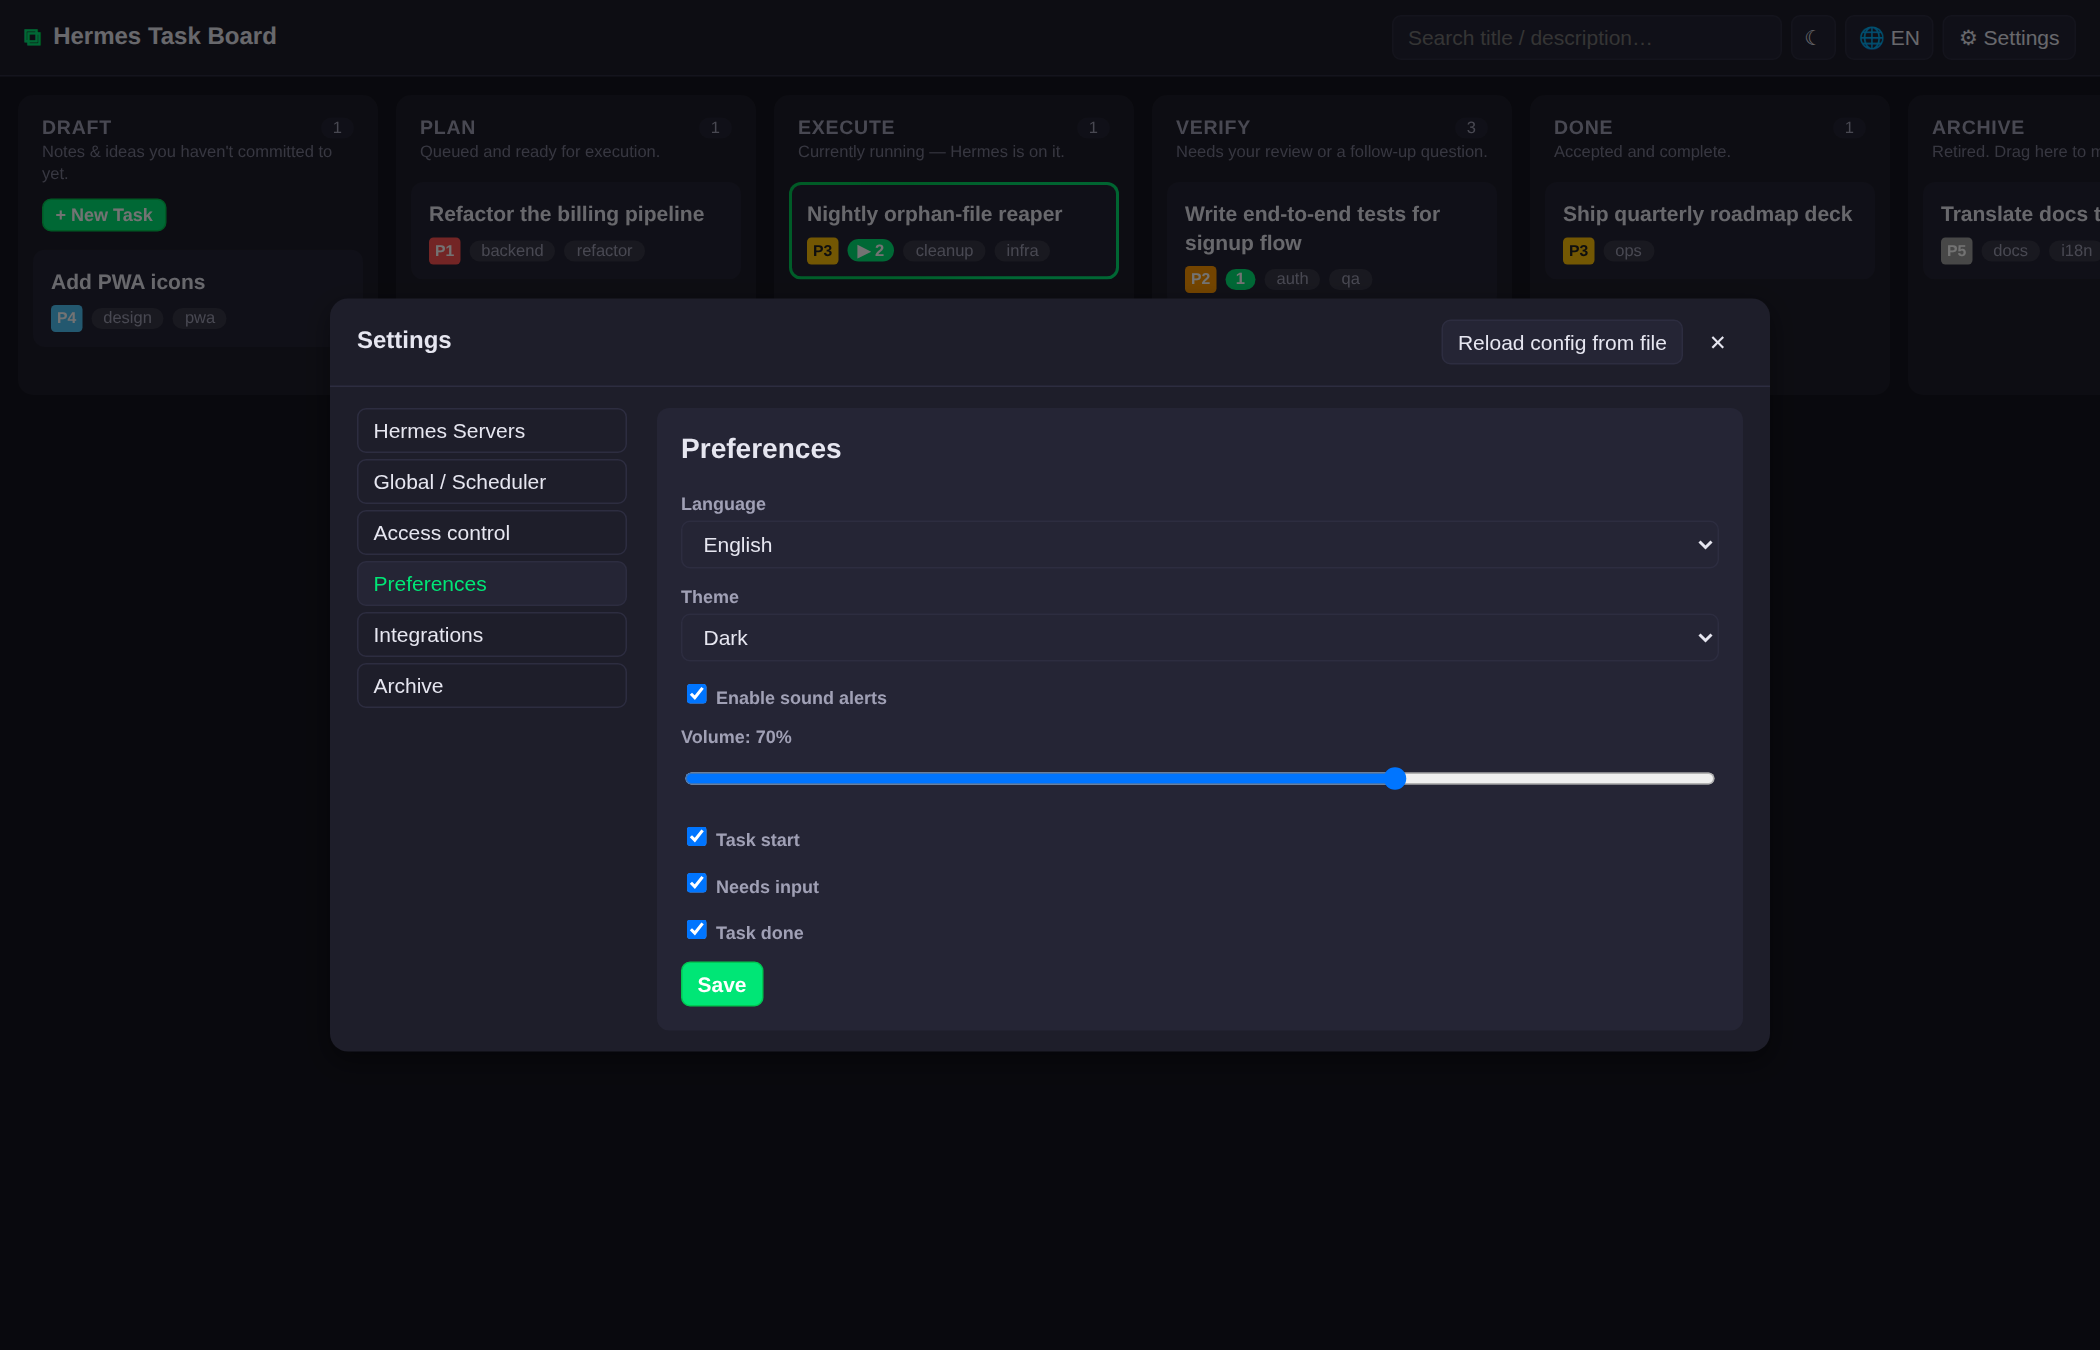
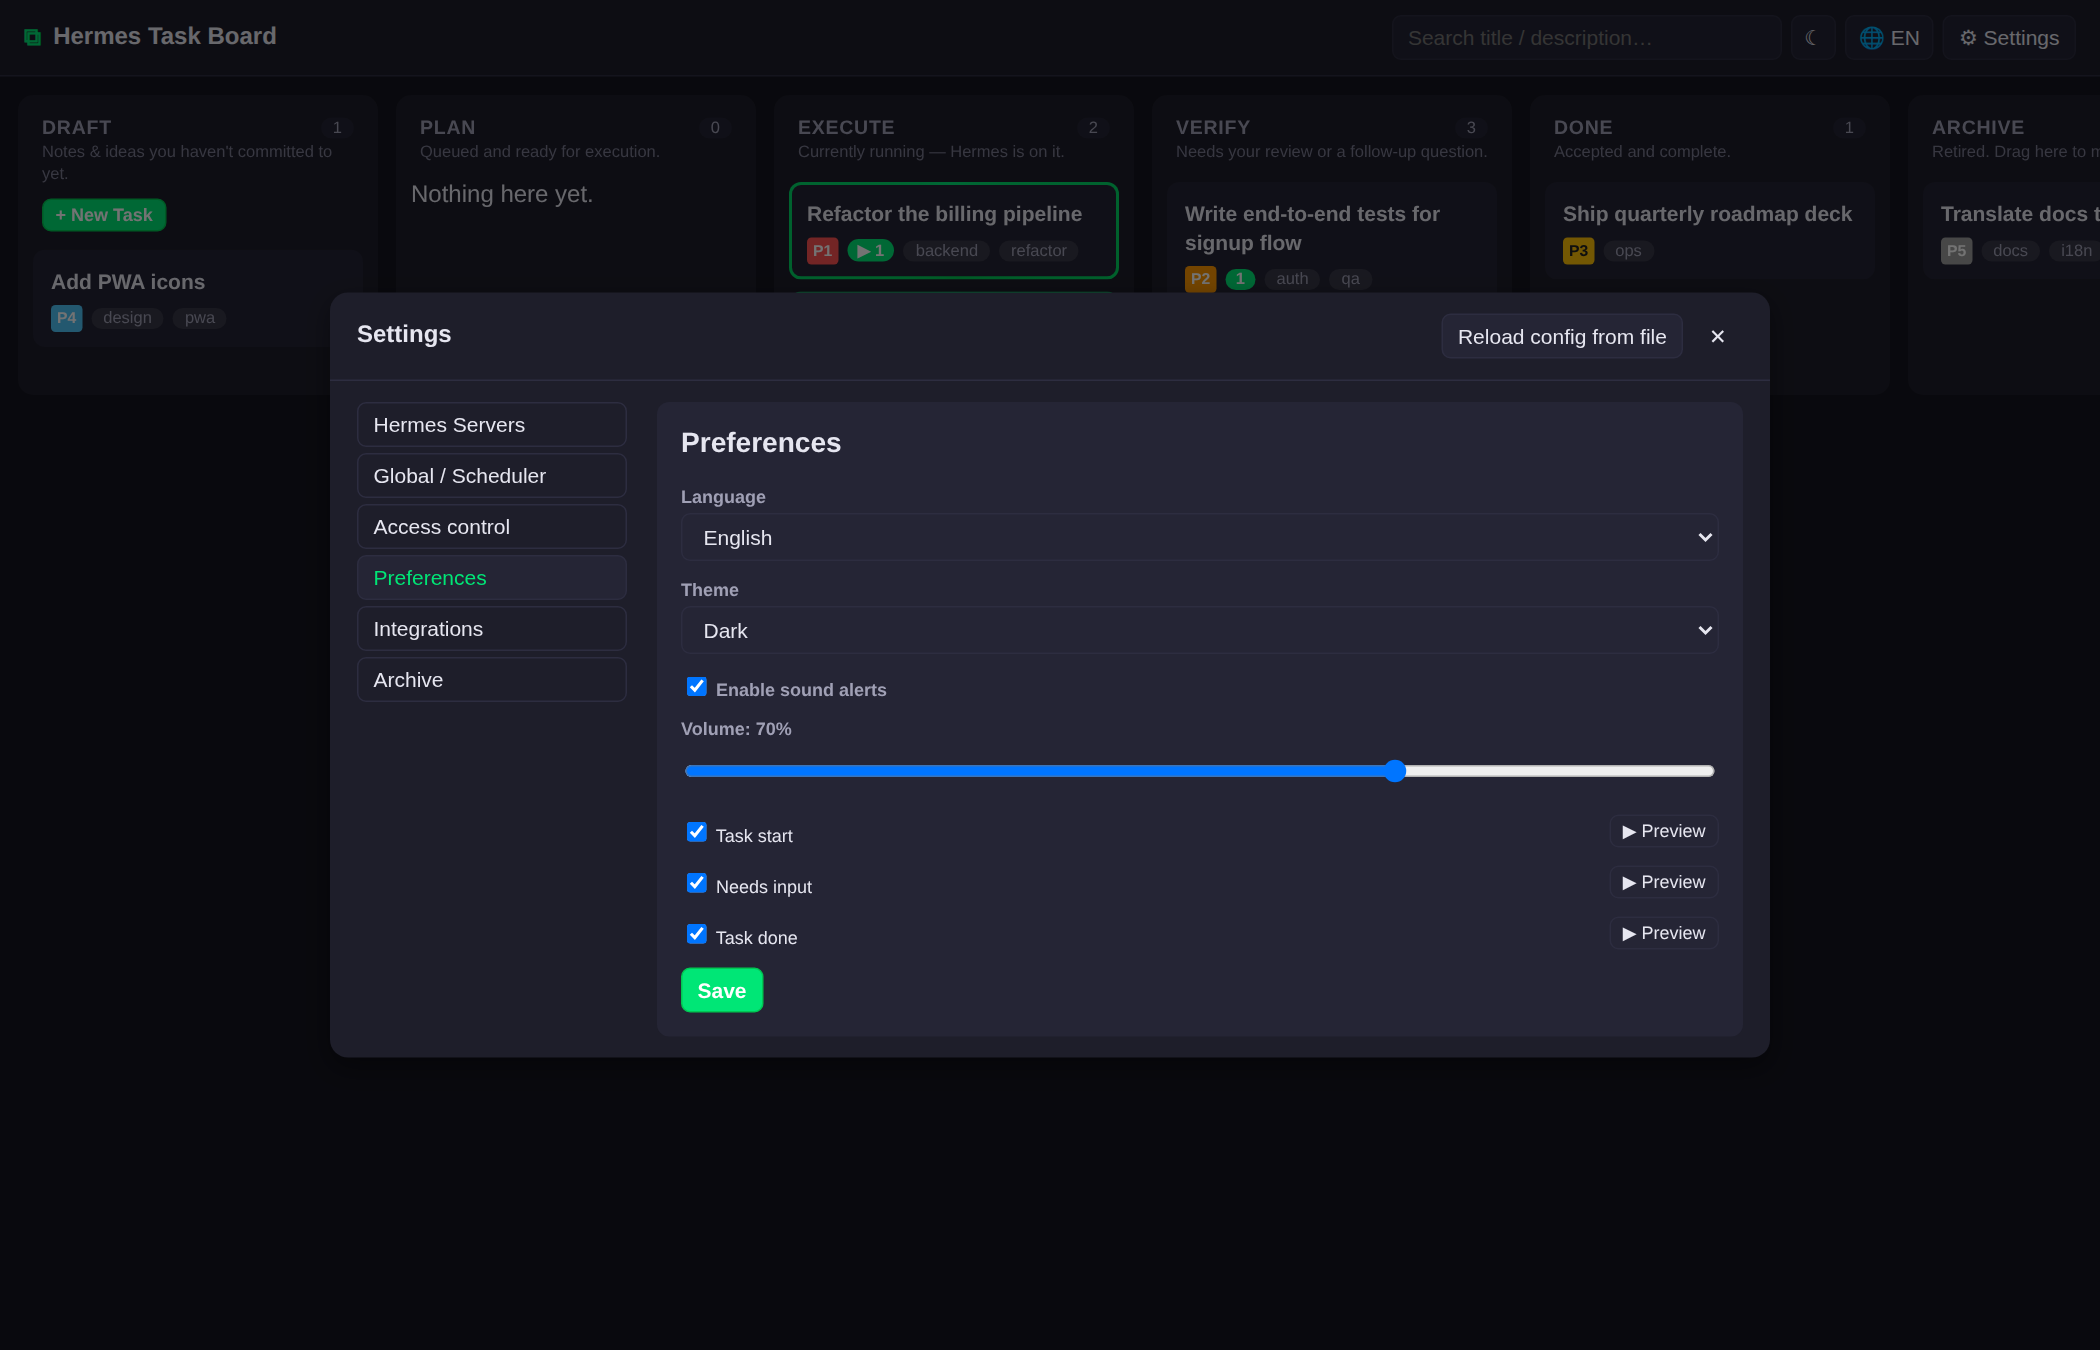
fix: attempt-list toggle was a no-op; add ▶ sound previews
Attempt list toggle
-------------------
Previous computed `attemptListVisible = listOpen || attempts.length > 1`
meant that once a task had two or more attempts the list stayed pinned
visible regardless of the Hide/Show button. Fixed by making `listOpen`
the single source of truth and initialising it per-load (open when
attempts > 1, closed otherwise); the toggle now surfaces whenever
there's at least one attempt.

Sound previews
--------------
Each event row in Settings → Preferences gains a ▶ Preview button that
plays its tone at the current volume, bypassing the per-event enable
flag so users can audition a sound before deciding whether to turn it
on. The real preferences are snapshotted and restored immediately
after the tone plays — no persistence.

Tests: test_attempt_list_toggle and test_sound_preview_buttons;
suite is 23/23 green.

diff --git a/internal/webfs/web/js/app.js b/internal/webfs/web/js/app.js
@@ -314,9 +314,6 @@ const TaskModal = {
     currentAttempt() {
       return this.attempts.find((a) => a.id === this.activeAttemptId) || null;
     },
-    attemptListVisible() {
-      return this.listOpen || this.attempts.length > 1;
-    },
     renderedDescription() {
       return markdown(this.task && this.task.description || '');
     },
@@ -400,14 +397,14 @@ const TaskModal = {
             <h3 class="attempts-heading">
               {{ $t('attempt.heading') }}
               <span class="attempts-count">{{ attempts.length }}</span>
-              <button v-if="attempts.length > 1 || attempts.length === 0"
-                      class="ghost small" @click="listOpen = !listOpen">
+              <button v-if="attempts.length > 0"
+                      class="ghost small attempt-toggle" @click="listOpen = !listOpen">
                 {{ listOpen ? $t('attempt.collapse') : $t('attempt.expand') }}
               </button>
             </h3>
 
-            <div class="attempt-panel" :class="{ stacked: attempts.length <= 1 }">
-              <div class="attempt-list" v-show="attemptListVisible">
+            <div class="attempt-panel" :class="{ stacked: !listOpen }">
+              <div class="attempt-list" v-show="listOpen">
                 <div v-for="a in attempts" :key="a.id" class="attempt-item"
                      :class="{active: a.id === activeAttemptId}"
                      @click="activeAttemptId = a.id">
@@ -497,6 +494,9 @@ const TaskModal = {
         if (!this.activeAttemptId || !this.attempts.some((a) => a.id === this.activeAttemptId)) {
           this.activeAttemptId = this.attempts.length ? this.attempts[this.attempts.length - 1].id : null;
         }
+        // Collapse the list when there's only one attempt; expand it when
+        // there are several so users see them at a glance.
+        this.listOpen = this.attempts.length > 1;
       } catch (e) { toast(t('toast.error', { err: e.message }), 'error'); }
     },
     async save() {
@@ -713,9 +713,18 @@ const SettingsModal = {
                   <label>{{ $t('settings.sound_volume') }}: {{ Math.round((preferences.sound.volume||0)*100) }}%</label>
                   <input type="range" min="0" max="1" step="0.05" v-model.number="preferences.sound.volume">
                 </div>
-                <div class="form-row"><label><input type="checkbox" v-model="preferences.sound.events.execute_start"> {{ $t('settings.sound_execute_start') }}</label></div>
-                <div class="form-row"><label><input type="checkbox" v-model="preferences.sound.events.needs_input"> {{ $t('settings.sound_needs_input') }}</label></div>
-                <div class="form-row"><label><input type="checkbox" v-model="preferences.sound.events.done"> {{ $t('settings.sound_done') }}</label></div>
+                <div class="form-row sound-row">
+                  <label><input type="checkbox" v-model="preferences.sound.events.execute_start"> {{ $t('settings.sound_execute_start') }}</label>
+                  <button type="button" class="secondary small preview-btn" @click="previewSound('execute_start')">▶ {{ $t('settings.sound_preview') }}</button>
+                </div>
+                <div class="form-row sound-row">
+                  <label><input type="checkbox" v-model="preferences.sound.events.needs_input"> {{ $t('settings.sound_needs_input') }}</label>
+                  <button type="button" class="secondary small preview-btn" @click="previewSound('needs_input')">▶ {{ $t('settings.sound_preview') }}</button>
+                </div>
+                <div class="form-row sound-row">
+                  <label><input type="checkbox" v-model="preferences.sound.events.done"> {{ $t('settings.sound_done') }}</label>
+                  <button type="button" class="secondary small preview-btn" @click="previewSound('done')">▶ {{ $t('settings.sound_preview') }}</button>
+                </div>
                 <button class="primary" @click="savePrefs">{{ $t('action.save') }}</button>
               </div>
 
@@ -748,6 +757,20 @@ const SettingsModal = {
     </div>
   `,
   methods: {
+    previewSound(kind) {
+      // Apply the current draft volume + blanket-enable so previews work even
+      // when the specific event's checkbox is off; restore the real prefs
+      // right after. This is local-only — nothing is persisted here.
+      const draft = this.preferences.sound || { enabled: true, volume: 0.7, events: {} };
+      setSoundPrefs({
+        enabled: true,
+        volume: draft.volume,
+        events: { execute_start: true, needs_input: true, done: true },
+      });
+      playSound(kind);
+      // Restore real prefs after the short tone finishes (~0.3 s).
+      setTimeout(() => setSoundPrefs(draft), 500);
+    },
     editServerInit(s) {
       if (s) {
         this.editServer = { ...s, api_key: '', __edit: true, models: (s.models || []).map((m) => ({ ...m })) };

diff --git a/internal/webfs/web/assets/app.css b/internal/webfs/web/assets/app.css
@@ -290,6 +290,10 @@ body.dragging-active * { cursor: grabbing !important; }
 
 .optional { color: var(--text-muted); font-weight: 400; font-size: 11px; }
 
+.sound-row { flex-direction: row; align-items: center; gap: 10px; }
+.sound-row label { flex: 1; margin-bottom: 0; font-weight: 500; color: var(--text); }
+.preview-btn { white-space: nowrap; }
+
 /* ---------- Toasts ---------- */
 .toasts { position: fixed; bottom: 20px; right: 20px; display: flex; flex-direction: column; gap: 8px; z-index: 200; }
 .toast { padding: 10px 14px; border-radius: 8px; background: var(--bg-elev-2); border-left: 4px solid var(--accent); max-width: 360px; box-shadow: var(--shadow); color: var(--text); }

diff --git a/tests/ui_test.py b/tests/ui_test.py
@@ -314,6 +314,63 @@ def test_new_task_overlay_noclose(page: Page):
     page.wait_for_selector(".modal-header h2:has-text('New Task')", state="detached", timeout=3000)
 
 
+@test("attempt list toggle: Hide/Show actually flips list visibility")
+def test_attempt_list_toggle(page: Page):
+    # Build a task with two dummy attempts inserted directly into the DB via
+    # the attempts endpoint isn't available, so we create attempts by manually
+    # hitting POST /api/tasks/{id}/attempts which will try to dispatch Hermes.
+    # That triggers real network activity — instead, use the lighter approach
+    # of mocking: insert rows via a sqlite-less SQL shim isn't possible in
+    # pure JS, so just craft two attempts via the normal Start endpoint and
+    # accept the side-effect (they'll fail fast if Hermes isn't configured —
+    # which is fine, we only care about the UI reading `attempts`).
+    tid = api_create_task(page, f"Togg-{uuid.uuid4().hex[:5]}", status="plan")
+    try:
+        # Create two attempts (server_id/model default to the registered
+        # "local" Hermes server; even if they fail to connect they'll exist
+        # in the attempts table with state=failed and UI will list them).
+        for _ in range(2):
+            page.evaluate(
+                "id => fetch('/api/tasks/' + id + '/attempts', {method:'POST', headers:{'Content-Type':'application/json'}, body:'{}'})",
+                tid,
+            )
+            page.wait_for_timeout(150)
+        page.reload(); wait_for_app(page)
+        page.locator(f".card:has(.card-title:has-text(\"Togg-\"))").first.click()
+        page.wait_for_selector(".attempt-panel")
+        # With 2 attempts, the list starts expanded.
+        toggle = page.locator("button.attempt-toggle").first
+        assert toggle.count() > 0, "toggle button must be visible"
+        assert page.locator(".attempt-list").first.is_visible(), "list should be visible initially with 2+ attempts"
+        toggle.click()
+        page.wait_for_timeout(200)
+        assert not page.locator(".attempt-list").first.is_visible(), "list should hide after clicking Hide"
+        toggle.click()
+        page.wait_for_timeout(200)
+        assert page.locator(".attempt-list").first.is_visible(), "list should re-show after clicking Show"
+        page.locator(".modal .close-btn").first.click()
+    finally:
+        api_delete_task(page, tid)
+
+
+@test("sound preview buttons are present and clickable")
+def test_sound_preview_buttons(page: Page):
+    page.click("button:has-text('Settings')")
+    page.wait_for_selector(".modal-header h2:has-text('Settings')")
+    page.locator(".settings-nav button:has-text('Preferences')").click()
+    page.wait_for_selector(".sound-row")
+    # One preview button per event (Task start / Needs input / Task done).
+    previews = page.locator(".sound-row button.preview-btn")
+    assert previews.count() == 3, f"expected 3 preview buttons, got {previews.count()}"
+    # Click each one — they must not throw (console errors would be caught
+    # by the test_no_js_errors aggregator). We can't verify audio in
+    # headless, but the Web Audio API must resume without exception.
+    for i in range(3):
+        previews.nth(i).click()
+        page.wait_for_timeout(60)
+    page.locator(".modal .modal-header-actions button.ghost").first.click()
+
+
 @test("POST /api/uploads returns 503 when OSS is not configured")
 def test_uploads_gated(page: Page):
     res = page.evaluate("""async () => {
@@ -529,6 +586,8 @@ def main():
         test_task_modal_overlay_noclose(page)
         test_new_task_overlay_noclose(page)
         test_uploads_gated(page)
+        test_attempt_list_toggle(page)
+        test_sound_preview_buttons(page)
 
         # Final: check we had no unexpected page errors during the whole run.
         if js_errors:

diff --git a/CHANGELOG.md b/CHANGELOG.md
@@ -5,6 +5,11 @@ Format follows [Keep a Changelog](https://keepachangelog.com/en/1.1.0/).
 
 ## 2026-04-19
 
+### Fixes (round 5)
+- **Attempt list toggle now actually toggles**. Previous logic was `attemptListVisible = listOpen || attempts.length > 1`, so once a task had 2+ attempts the list stayed permanently visible no matter how many times you clicked Hide. Now a single `listOpen` flag drives visibility; it defaults to open when `attempts.length > 1` and false otherwise, and the toggle button shows whenever there is at least one attempt.
+- **Sound preview buttons** next to each event toggle in Settings → Preferences. The ▶ button plays the corresponding tone regardless of whether that specific event is enabled (so you can still audition a sound before deciding to turn it on), using the current volume draft.
+- Two new Playwright cases; suite is 23/23 green.
+
 ### UX additions (round 4)
 - **Image upload now requires an image host**: verified by reading Hermes's `gateway/platforms/api_server.py` that the server forwards `input` text verbatim to the upstream LLM (DashScope, etc.) and silently drops `image_url` content parts. Since the LLM can't reach `http://127.0.0.1:1900/uploads/*`, local storage is useless in any realistic setup. The Insert image button and paste/drop handlers are now hidden unless Aliyun OSS is configured; `POST /api/uploads` returns `503 image_upload_disabled` in the same case. A helpful hint underneath the description editor explains why and points to Settings → Integrations.
 - **Task modals no longer close on overlay click**: the task-open and new-task modals now only close via the explicit × in the header (or Cancel for new-task). Accidentally clicking the dimmed area around the modal while editing a long description no longer discards the whole thing. Settings and confirmation modals keep their existing overlay-click behaviour since they don't risk losing user input.
